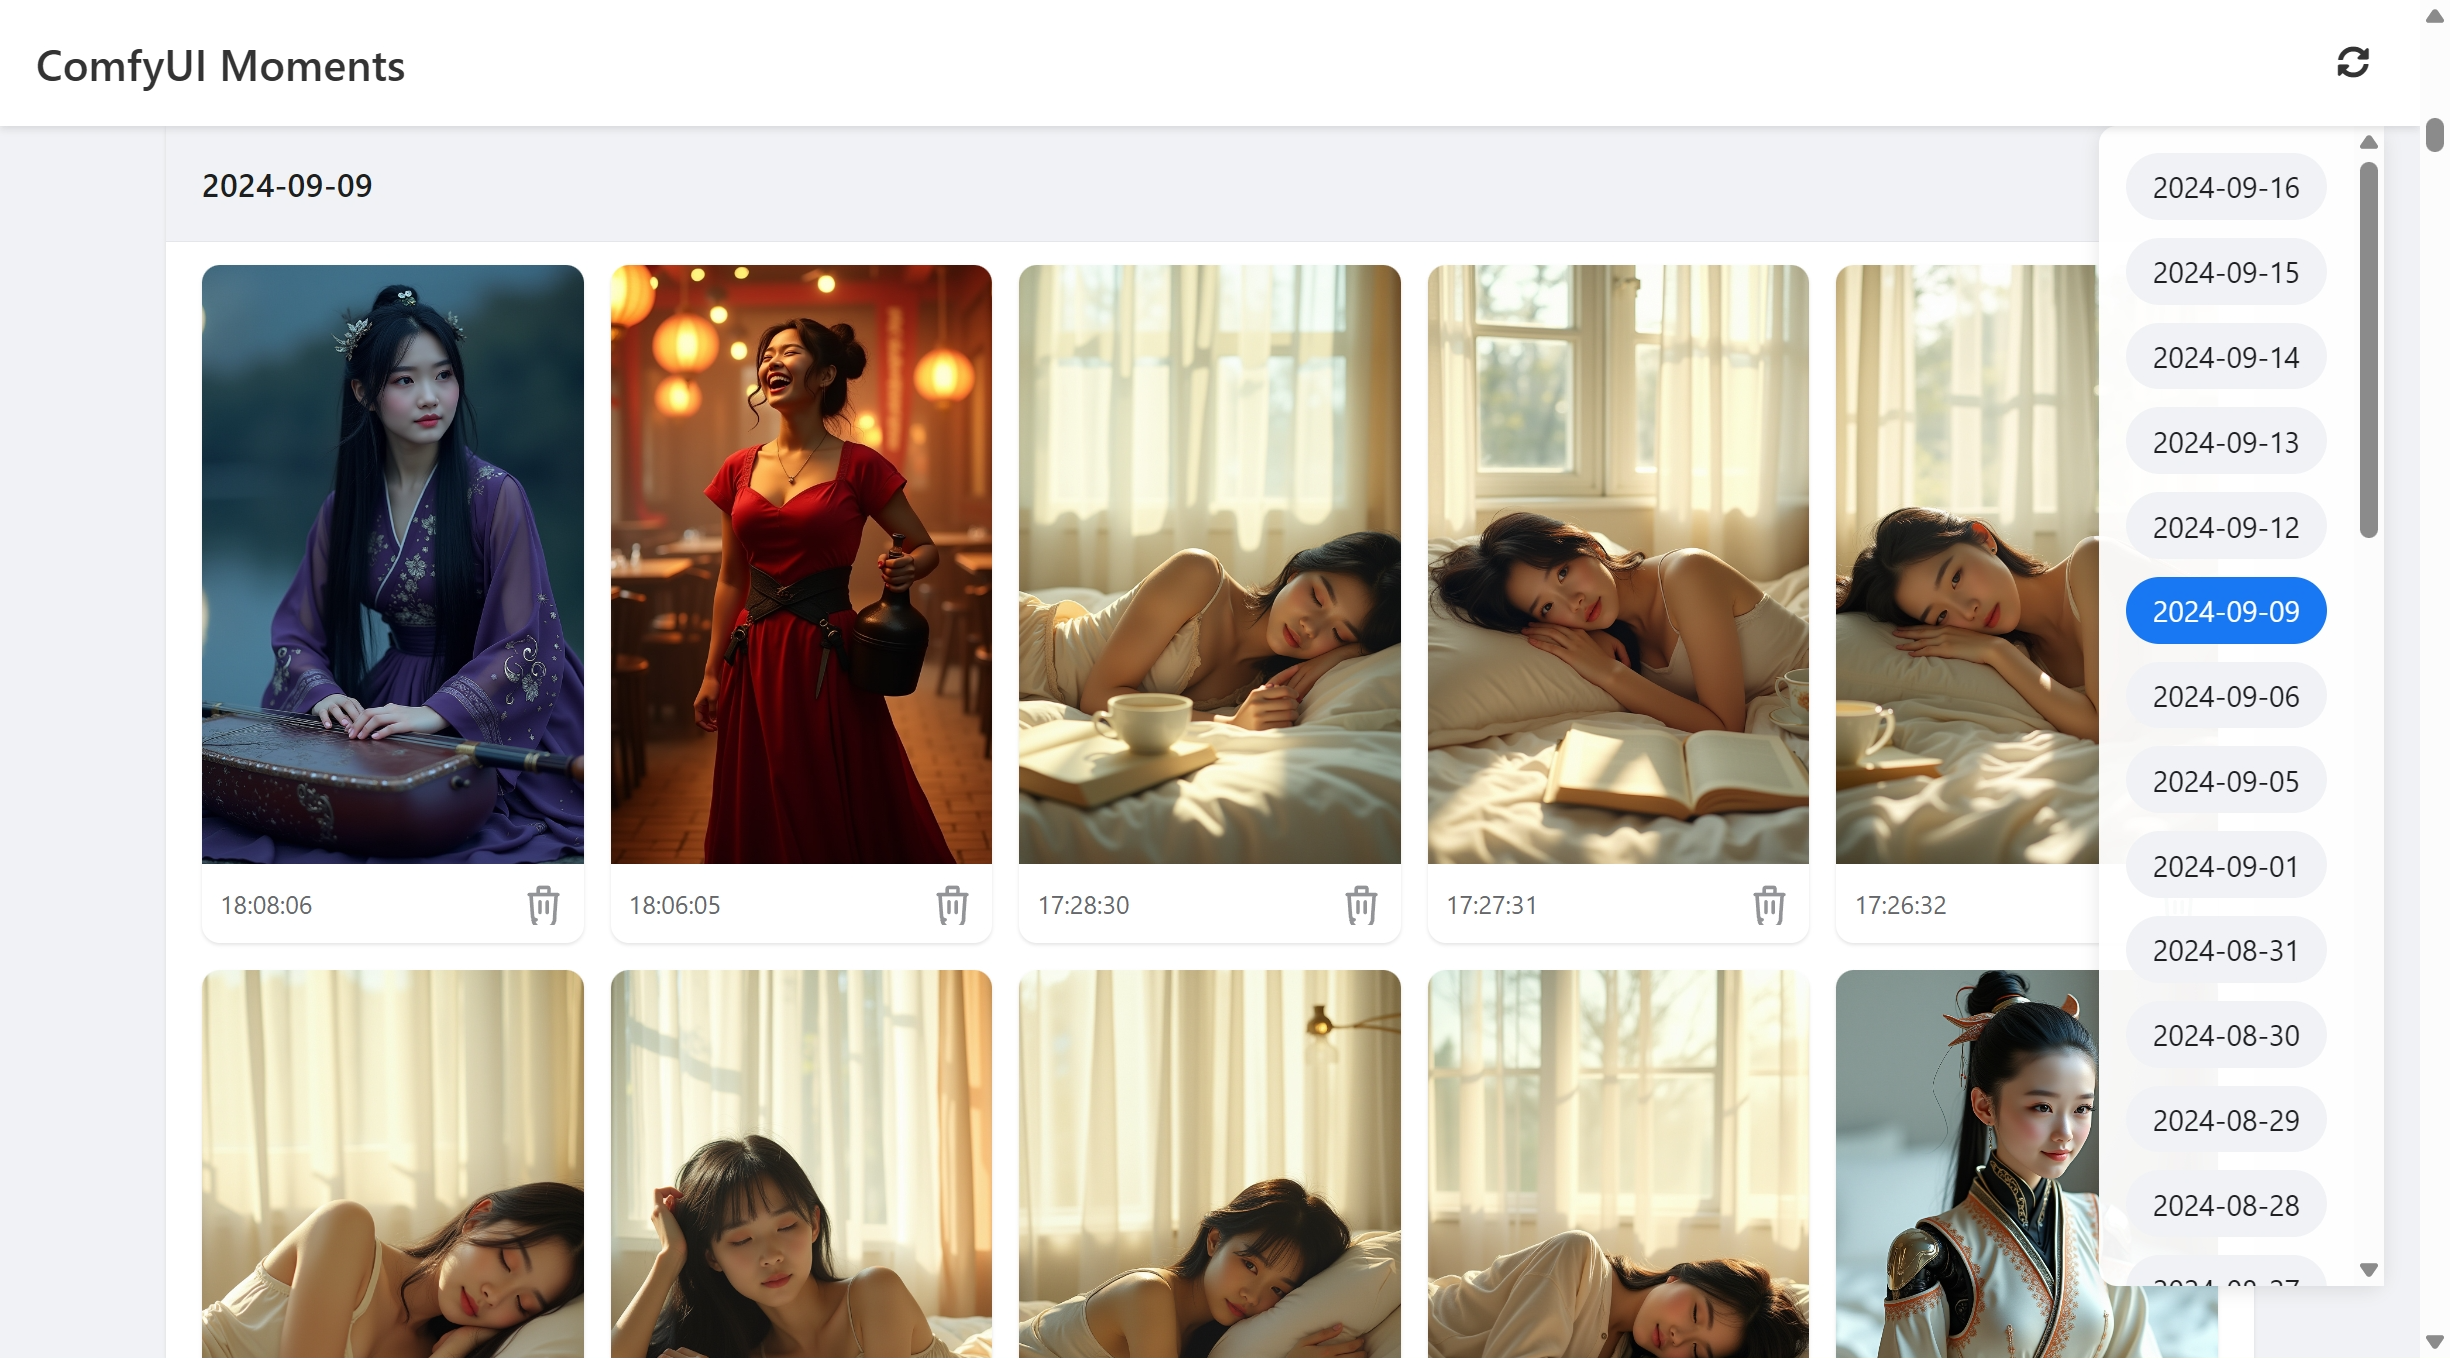
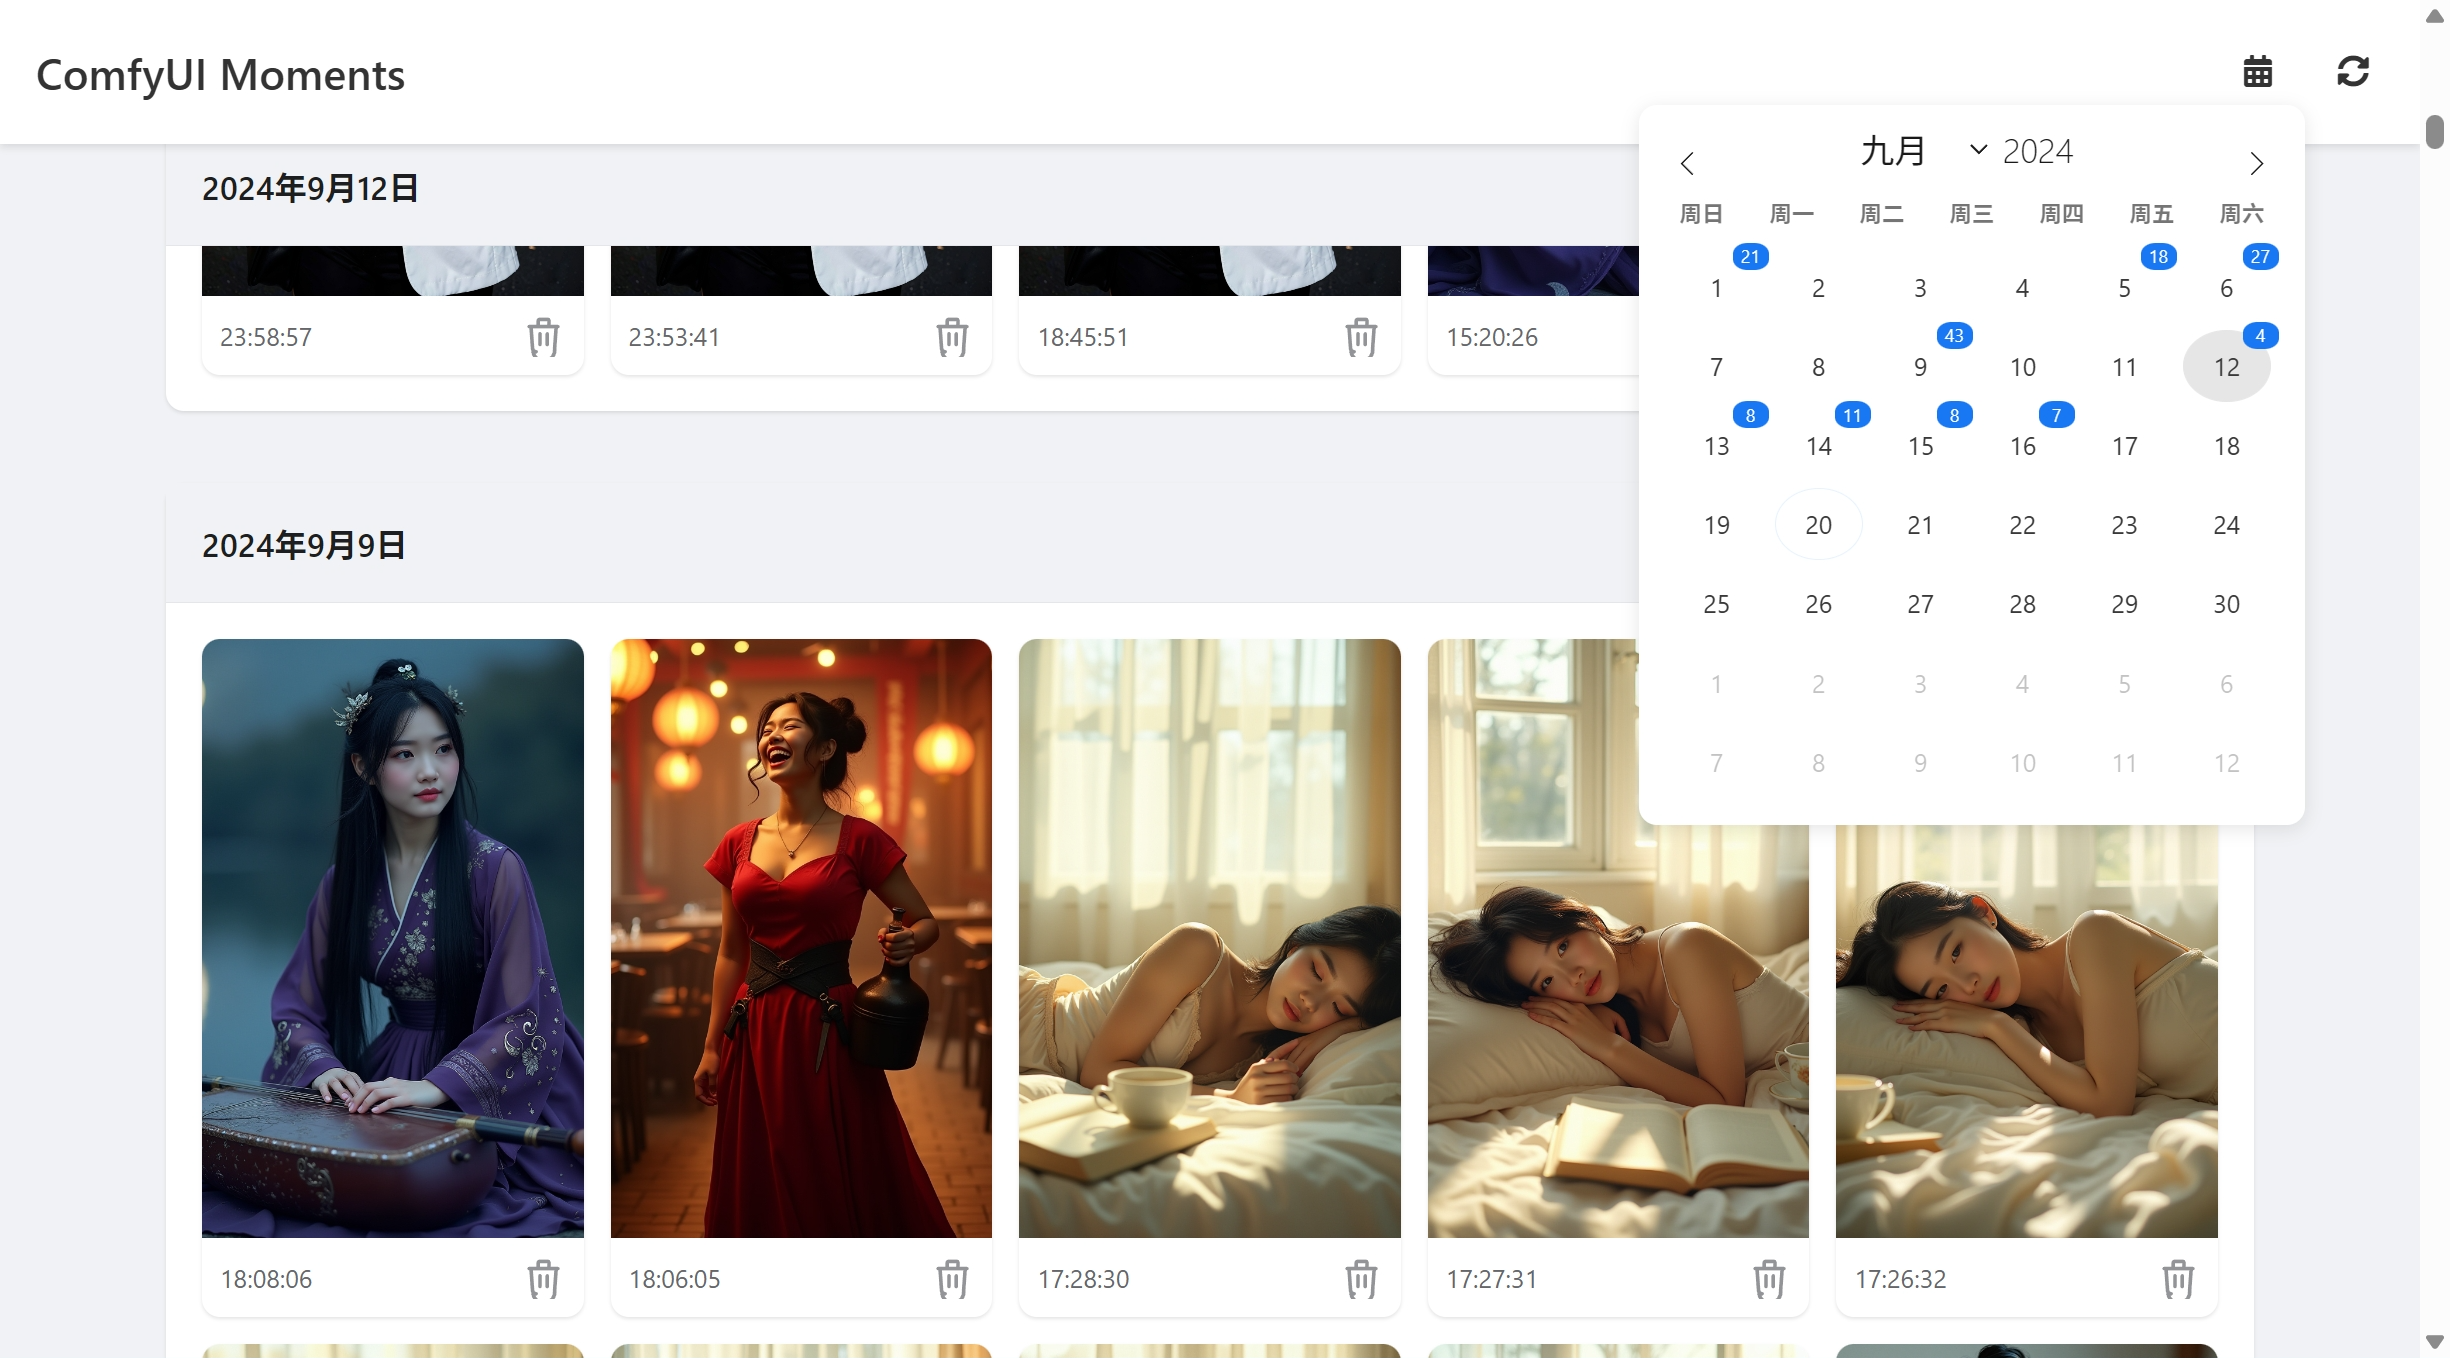
鼠标悬停展示日历控件

diff --git a/static/script.js b/static/script.js
@@ -510,6 +510,8 @@ function setupCalendarButton() {
         calendarContainer.classList.add('show');
         if (!flatpickrInstance) {
             initializeFlatpickr();
+        } else {
+            updateCalendarDate();
         }
     });
 
@@ -543,7 +545,7 @@ function initializeFlatpickr() {
         inline: true,
         mode: "single",
         dateFormat: "Y-m-d",
-        defaultDate: "today",
+        defaultDate: getCurrentVisibleDate(),
         locale: Mandarin,  // 使用中文本地化配置
         onDayCreate: function(dObj, dStr, fp, dayElem) {
             const date = dayElem.dateObj;
@@ -559,13 +561,32 @@ function initializeFlatpickr() {
         onChange: function(selectedDates, dateStr, instance) {
             if (selectedDates.length > 0) {
                 scrollToDate(dateStr);
-                updateActiveDate(dateStr);
             }
         }
     });
 
     // 初始化时设置当前日期
-    updateActiveDate();
+    updateCalendarDate();
+}
+
+function getCurrentVisibleDate() {
+    const dateContainers = document.querySelectorAll('.date-container');
+    const headerHeight = document.querySelector('.app-header').offsetHeight;
+    
+    for (let container of dateContainers) {
+        const rect = container.getBoundingClientRect();
+        if (rect.top <= headerHeight && rect.bottom > headerHeight) {
+            return container.id.replace('date-', '');
+        }
+    }
+    return new Date(); // 如果没有找到可见的日期，返回今天的日期
+}
+
+function updateCalendarDate() {
+    const currentDate = getCurrentVisibleDate();
+    if (flatpickrInstance) {
+        flatpickrInstance.setDate(currentDate, false);
+    }
 }
 
 function formatDate(date) {
